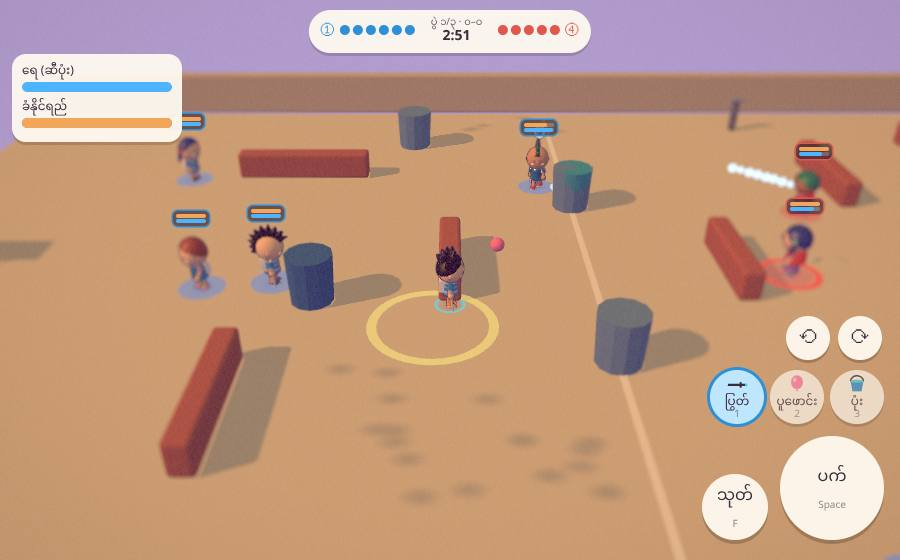
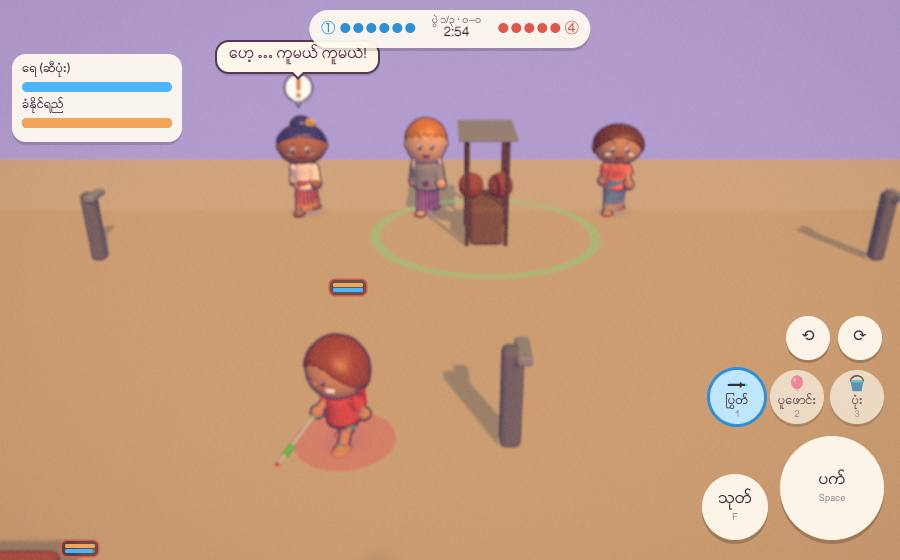
T11 review 1: ground strip behind the back edges, call look from the lot at their faces, #msg after the look; shots regenerated (rally.cjs pauses mid-look)

diff --git a/yangon/war.js b/yangon/war.js
@@ -52,6 +52,7 @@ const GROUNDS = [], ground = (geo, c, x, y, z) => { const m = W.keep(mesh(geo, n
 const BRIDGES = ALLEY ? [{ z0: -1.6, z1: 1.6 }, { z0: 7, z1: 8.2 }] : [];
 if (!ALLEY) {
   ground(new THREE.PlaneGeometry(B.x1 - B.x0, B.z1 - B.z0).rotateX(-Math.PI / 2), '#d6c7ad', 0, 0, 0);
+  for (const s of [-1, 1]) ground(new THREE.PlaneGeometry(3, B.z1 - B.z0).rotateX(-Math.PI / 2), '#d9cfbf', s * (B.x1 + 1.5), 0, 0); // the street behind each back edge: the ward's adults walk in from here
   mesh(new THREE.PlaneGeometry(.12, B.z1 - B.z0 - 1).rotateX(-Math.PI / 2), '#efe6d6', 0, .012, 0, { cast: false }); // a chalk line down the middle
   for (const s of [-1, 1]) box(B.x1 - B.x0, 1.1, .3, '#c9b79a', 0, 0, s * (B.z1 + .2)); // the compound walls along the sides
   for (const [x, z, w, d] of [[-6, -4.5, 3, .4], [-6, 4, .4, 2.6], [6, 4.5, 3, .4], [6, -4, .4, 2.6], [-2.6, 0, .4, 2.2], [2.6, 0, .4, 2.2], [-10, 6.5, 2.2, .4], [10, -6.5, 2.2, .4]]) {
@@ -481,10 +482,15 @@ function rallyStart(why, v) {
     return a;
   });
   const caller = RL.adults[0]; shout.position.set(0, 2.3 / caller.c.g.scale.x, 0); caller.c.g.add(shout); shout.visible = true; RL.shoutT = 2.4; caller.c.anim.emote('bang', 1.2);
-  say('ရပ်ကွက်က လူကြီးတွေ ဝင်ကူပြီ!', 3); sound.fx('bell', pos(caller));
-  if (W.orbit) { W.orbit.focus(caller.c.g, { dist: 9, t: .4 }); RL.focusT = 1; } // a look at them, then the view is yours again (any input cuts it short)
+  sound.fx('bell', pos(caller));
+  if (W.orbit) { // a look from the lot towards their back edge — faces to the camera, at where they walk in — then the view is yours again (any input cuts it short)
+    const to = RL.adults.reduce((m, a) => m.add(new THREE.Vector3(a.path.at(-1)[0], 0, a.path.at(-1)[1])), new THREE.Vector3()).divideScalar(RL.adults.length);
+    W.orbit.focus(to, { dist: 9, az: Math.atan2(-SIDE[HOME], 0), t: .4 }); RL.focusT = 1;
+  } else say(RALLY_MSG, 3);
 }
-const skipLook = () => { if (RL.focusT > 0) { RL.focusT = 0; W.orbit?.release(); } };
+const RALLY_MSG = 'ရပ်ကွက်က လူကြီးတွေ ဝင်ကူပြီ!'; // shown once the look lets go, or it sits on the shout bubble
+const endLook = () => { RL.focusT = 0; W.orbit?.release(); if (RL.phase !== 'idle') say(RALLY_MSG, 3); };
+const skipLook = () => { if (RL.focusT > 0) endLook(); };
 addEventListener('keydown', skipLook, true); addEventListener('pointerdown', skipLook, true);
 function walkAlong(a, dt) { // a plain walk along the path (they're not Yuka's); true once at its end
   if (a.pi >= a.path.length) return true;
@@ -512,7 +518,7 @@ function rallyThrow(a) { // at a visitor — the one with the most mates round t
 function rallyStep(dt) {
   if (RL.phase === 'idle') return;
   RL.t += dt;
-  if (RL.focusT > 0 && (RL.focusT -= dt) <= 0) W.orbit?.release();
+  if (RL.focusT > 0 && (RL.focusT -= dt) <= 0) endLook();
   if (RL.shoutT > 0 && (RL.shoutT -= dt) <= 0) { shout.visible = false; shout.removeFromParent(); }
   if (RL.phase === 'call' && RL.t >= 1.5) RL.phase = 'out';
   const flying = balloons.some(b => b.rally);
@@ -821,4 +827,4 @@ if (P.has('tune')) import('https://cdn.jsdelivr.net/npm/lil-gui@0.19.2/dist/lil-
 
 W.start();
 window.war = { ai, fx, rules, WEAPONS, TUNE, setWeapon, stroke, lob, heave, dump, soak, goOut, balloons, drops, kids, me, flipGoggles, gogKey, state: () => ({ playing, ended, A: active('A'), B: active('B'), outs: { ...OUTS }, stance: { ...STANCE }, clock: +clock.toFixed(0), water: me.water, grit: me.grit, drown, sting }), result: null, W, STATS,
-  RALLY, adults: ADULTS, get rally() { return { phase: RL.phase, left: RL.left, n: RL.n, adults: RL.adults.length, flying: balloons.filter(b => b.rally).length }; } }; // T11
+  RALLY, adults: ADULTS, get rally() { return { phase: RL.phase, look: RL.focusT, left: RL.left, n: RL.n, adults: RL.adults.length, flying: balloons.filter(b => b.rally).length }; } }; // T11

diff --git a/docs/plans/T11.md b/docs/plans/T11.md
@@ -103,9 +103,18 @@ At most once a round (1 / 1 / 1), always with the home side behind (more OUTs, a
 
 **Not done / open**
 - The AI visitors dodge very well: in ?auto the home-side barrage landed 0–6 of 28 hits on them. Against you (`?mode=away`) it lands. If the rally should bite harder, lower the dodge window (1.2 s) or raise `spread` — tune values, not changed here.
-- On the lot the adults appear off the ground plane (void) for ~1 s at `x = ±15` as A1 said; a short gate / fence stub behind the stand would hide it (not built — A1 said no prop).
+- ~~On the lot the adults appear off the ground plane~~ — fixed in code review 1 (below).
 - `?mode=away` on a phone: the 1 s camera look away from you mid-fight is skippable but untested on touch.
 - **Two `rest` snags in round 1 of `check.cjs`** (above) — the same count on main; not fixed here.
 - **Bug found in this review**: `roundOver()` had a `// T11` line comment in the middle of its one-line body, which commented out `if (winner) wins[winner]++; rounds.push(winner); roundLabel();` — round wins would not have been counted (the `?auto` match could not have reached a 2–0 result). Fixed with a block comment; the final runs above are after the fix. I don't know whether the earlier check runs in this file were taken with the bug in.
 - The alley case (④) passes too (re-run on the merged tree: 28 / 28, all bursts > 0 on the visitors' side, adults at 10.5, 3 visitor hits −.25 each); only `rally-alley.jpg` comes from it.
 - `rally-exit.jpg` frames an aunt walking off partly behind the water-pot stand (the lot has no gate).
+
+## Code review 1 — fixes (2026-11-09)
+1. **Ground behind the back edges (lot)**: a 3 m × full-width strip (`#d9cfbf`, the banks colour, via `ground()`) at `x = ±(B.x1 + 1.5)`, so `entryPath()`'s start `s × (B.x1 + 1)` is on the street, not in the void.
+2. **The call's look**: `orbit.focus(<mean of the adults' arrival points>, { dist: 9, az: atan2(−SIDE[HOME], 0), t: .4 })` — the camera stands on the lot and looks at their faces coming in (lot: `[s × 11.5, ≈0]`; alleys: the mean of the door-side arrival points). Released after 1 s as before; any keydown / pointerdown skips.
+3. **`#msg` after the look**: the 「ရပ်ကွက်က လူကြီးတွေ ဝင်ကူပြီ!」 line now comes from `endLook()` (the look's release, timed out or skipped), so it no longer covers the shout bubble on portrait.
+4. **Merged `origin/main`** (T10 #43): main's imports (`world.js?v=18`, `cast.js?v=13`), `ai.js?v=3` kept (T11 changed it), `war.js?v=16` in `war.html`; `docs/TASKS.md` = main's. `sw.js` lists no war files — unchanged.
+5. `window.war.rally` now also has `look` (seconds of the look left) — for the screenshot script.
+
+**Re-run** (system Chrome, `docs/water/rally.cjs 8811` and `… alley`): **ALL PASS, console errors 0** in lot / away / alley (28 / 28 thrown, every burst on the visitors' side, adults at 11.5 / 10.5 from the chalk line, no OUT or foul from a rally hit). `rally-call.jpg` and `rally-away.jpg` are now taken mid-look (`W.paused` from a `W.tick` hook, since the game runs ~6× faster than the page polls) and show the adults on ground, faces to the camera; the away one is the look too (the rings are in `rally-barrage.jpg`). Note: the bundled Chromium here has no WebGL, so the script was run through `/Applications/Google Chrome.app`.
